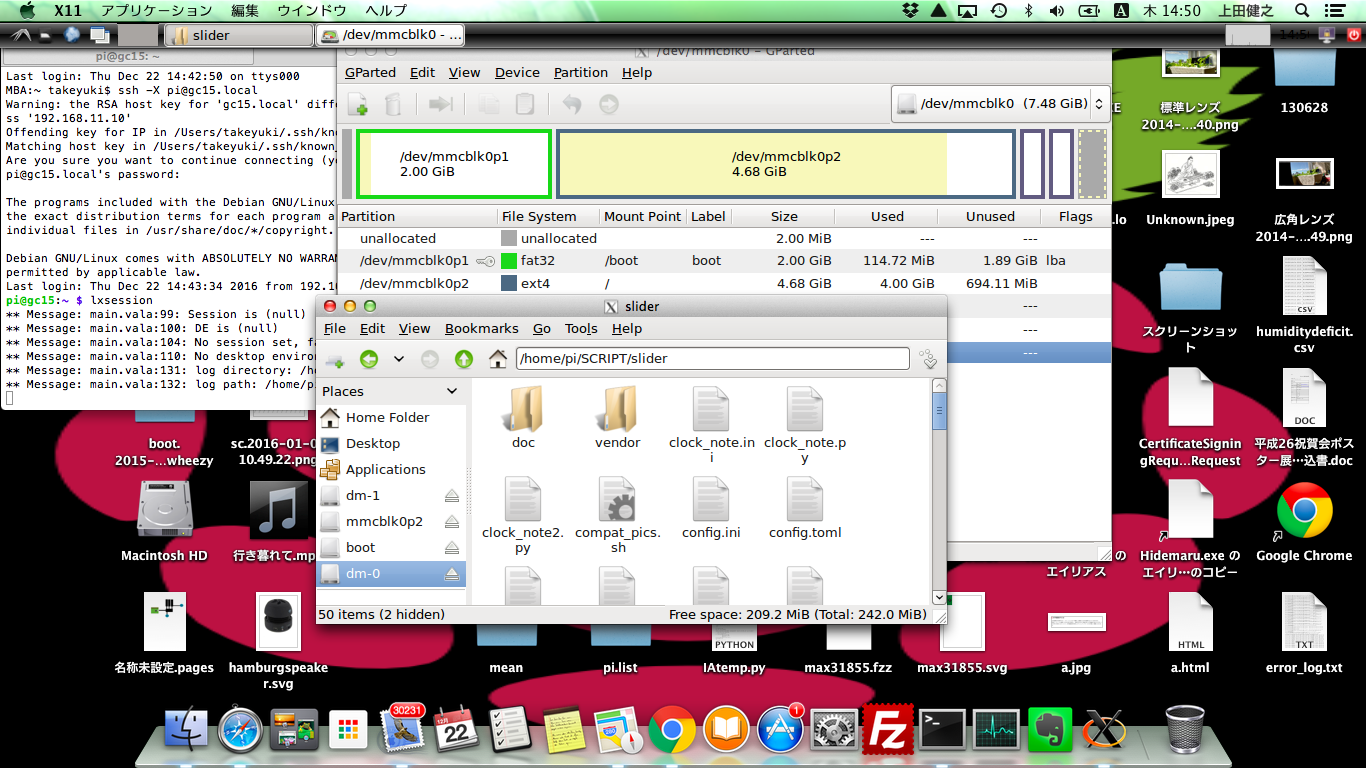
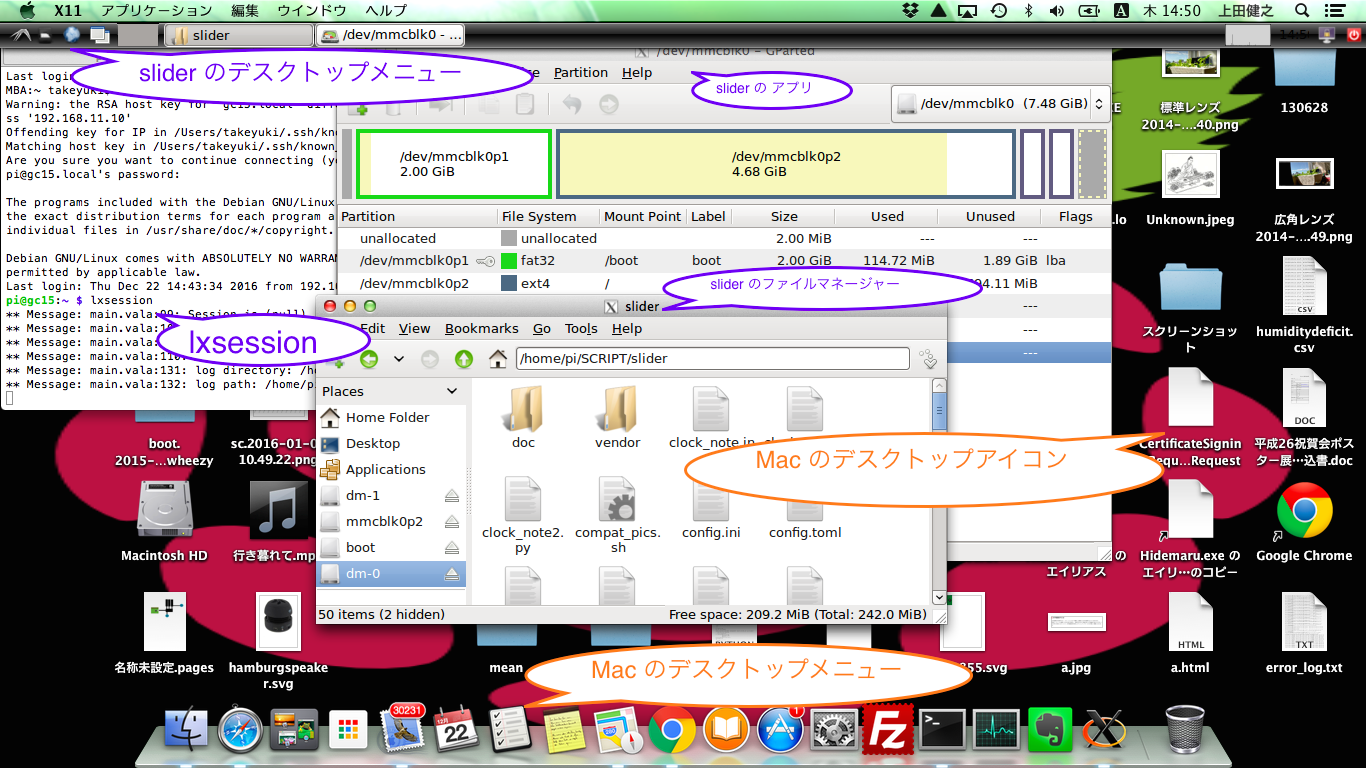
x

diff --git a/x.md b/x.md
@@ -1,0 +1,20 @@
+# X window によるデスクトップ共有
+
+Mac のように X Window をもつ PC から X のディスプレイ共有を利用して　slider に接続することができます
+
+X 経由で slider に接続する場合は、下記のように -X オプションつきで[ssh 接続](ssh.md) をおこないます
+
+```bash:
+ssh -X pi@ホスト名.local
+```
+
+<img src="pic/ss.2016-12-22 14.47.01.png" width="80%">
+<img src="pic/ss.2016-12-22 14.47.42.png" width="80%">
+
+ログイン後、そのコンソールで lxsession コマンドを実行すると、slider の Linux OS のデスクトップが Mac のデスクトップの中に開かれます
+
+<img src="pic/ss.2016-12-22 14.50.32.png" width="45%">
+
+この接続方法では X window　をホストする PC のデスクトップと slider のデスクトップが完全に融合し、両者の間でテキストのコピー＆ペーストが可能になる等、使い勝手がよいです
+
+この方法は　X window を持つ Mac の他、Cygwin 等で X Window をもつ WIndows PC、 Linux PC などで使うことができます
